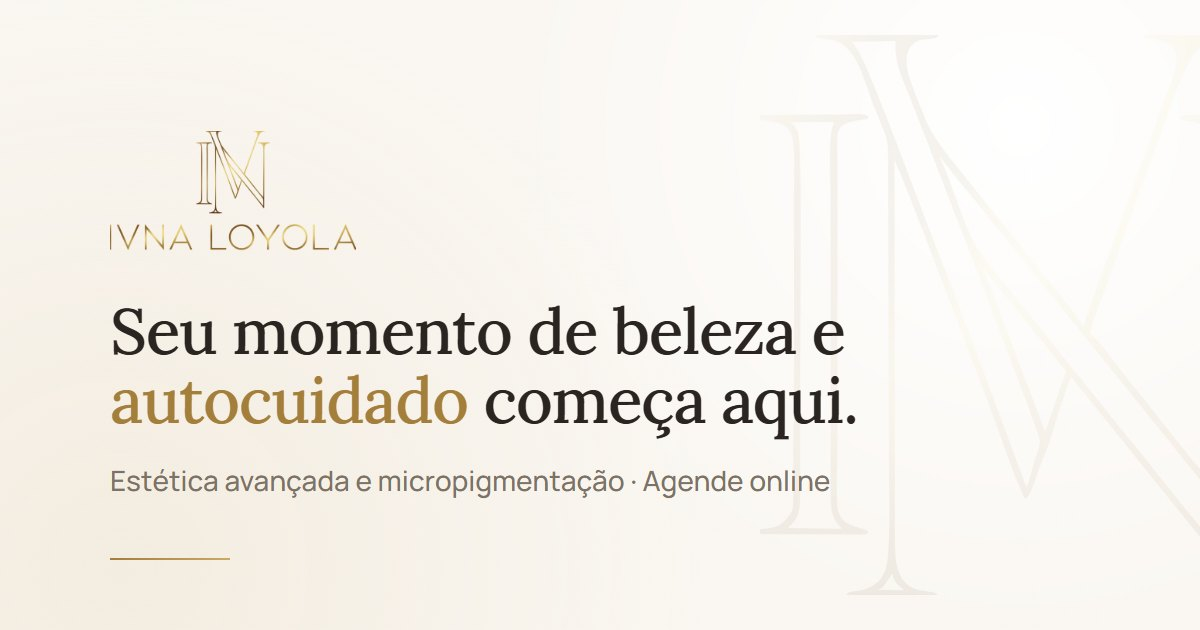
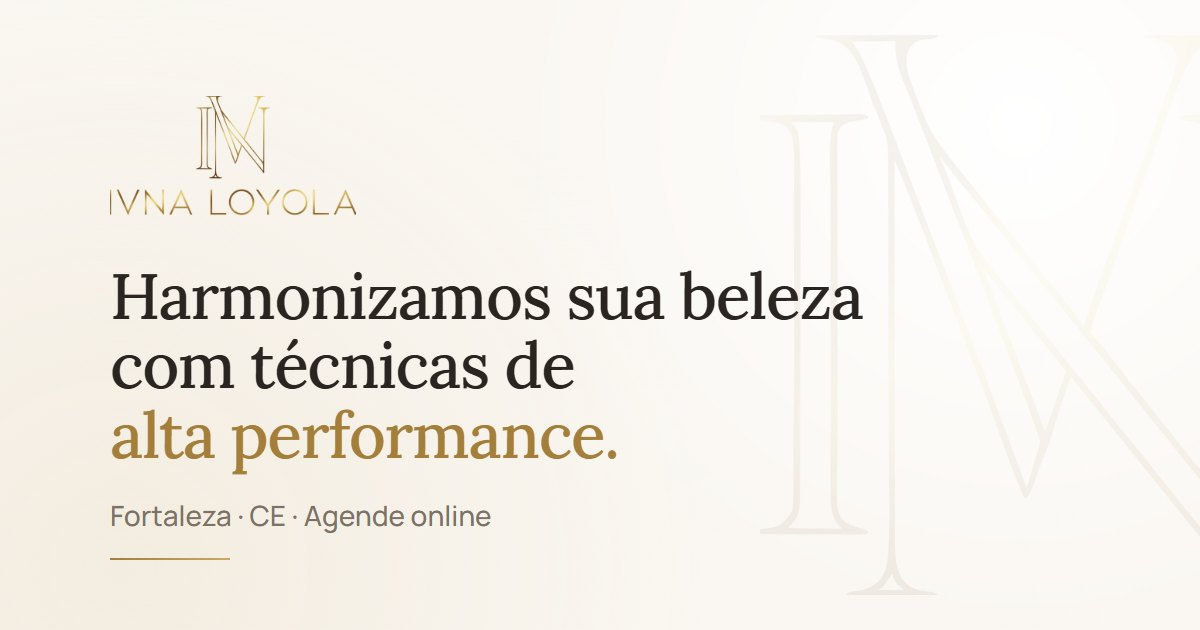
fix(ivna): prévia do link (og) com o título aprovado do hero
Imagem 1200x630 e descrição do WhatsApp/Instagram trocam 'Seu momento de
beleza e autocuidado' pelo título aprovado (Harmonizamos sua beleza com
técnicas de alta performance) + Fortaleza.

Changed region(s): [[0.0925, 0.4222, 0.74, 0.8444], [0.0925, 0.1508, 0.3083, 0.3921]]

diff --git a/src/lib/vitrine/conteudo.ts b/src/lib/vitrine/conteudo.ts
@@ -68,8 +68,8 @@ const IVNA: ConteudoVitrine = {
   subtitulo: { t: 'Micropigmentação, cílios, estética facial e spa, do jeitinho que você merece.' }, // Ddj0mJ2J_Lp
   selos: ['A avaliação é indispensável', 'Higiene, técnica e atenção em cada detalhe'], // Dce6N0DJv3B · DeK7ORmG_0j (voz dela, aprovado 24/10)
   og: {
-    imagem: '/vitrine/ivna-loyola/og.jpg', // logo dourada original + frase aprovada (24/10)
-    descricao: 'Seu momento de beleza e autocuidado começa aqui. Estética avançada e micropigmentação. Agende online.',
+    imagem: '/vitrine/ivna-loyola/og.jpg', // logo dourada + título aprovado do hero (24/10, refeita)
+    descricao: 'Harmonizamos sua beleza com técnicas de alta performance. Micropigmentação, cílios, estética facial e spa em Fortaleza. Agende online.',
   },
   frase: 'Autocuidado não é luxo, é necessidade.', // DdtqNMlSsvl
   proposta: {
